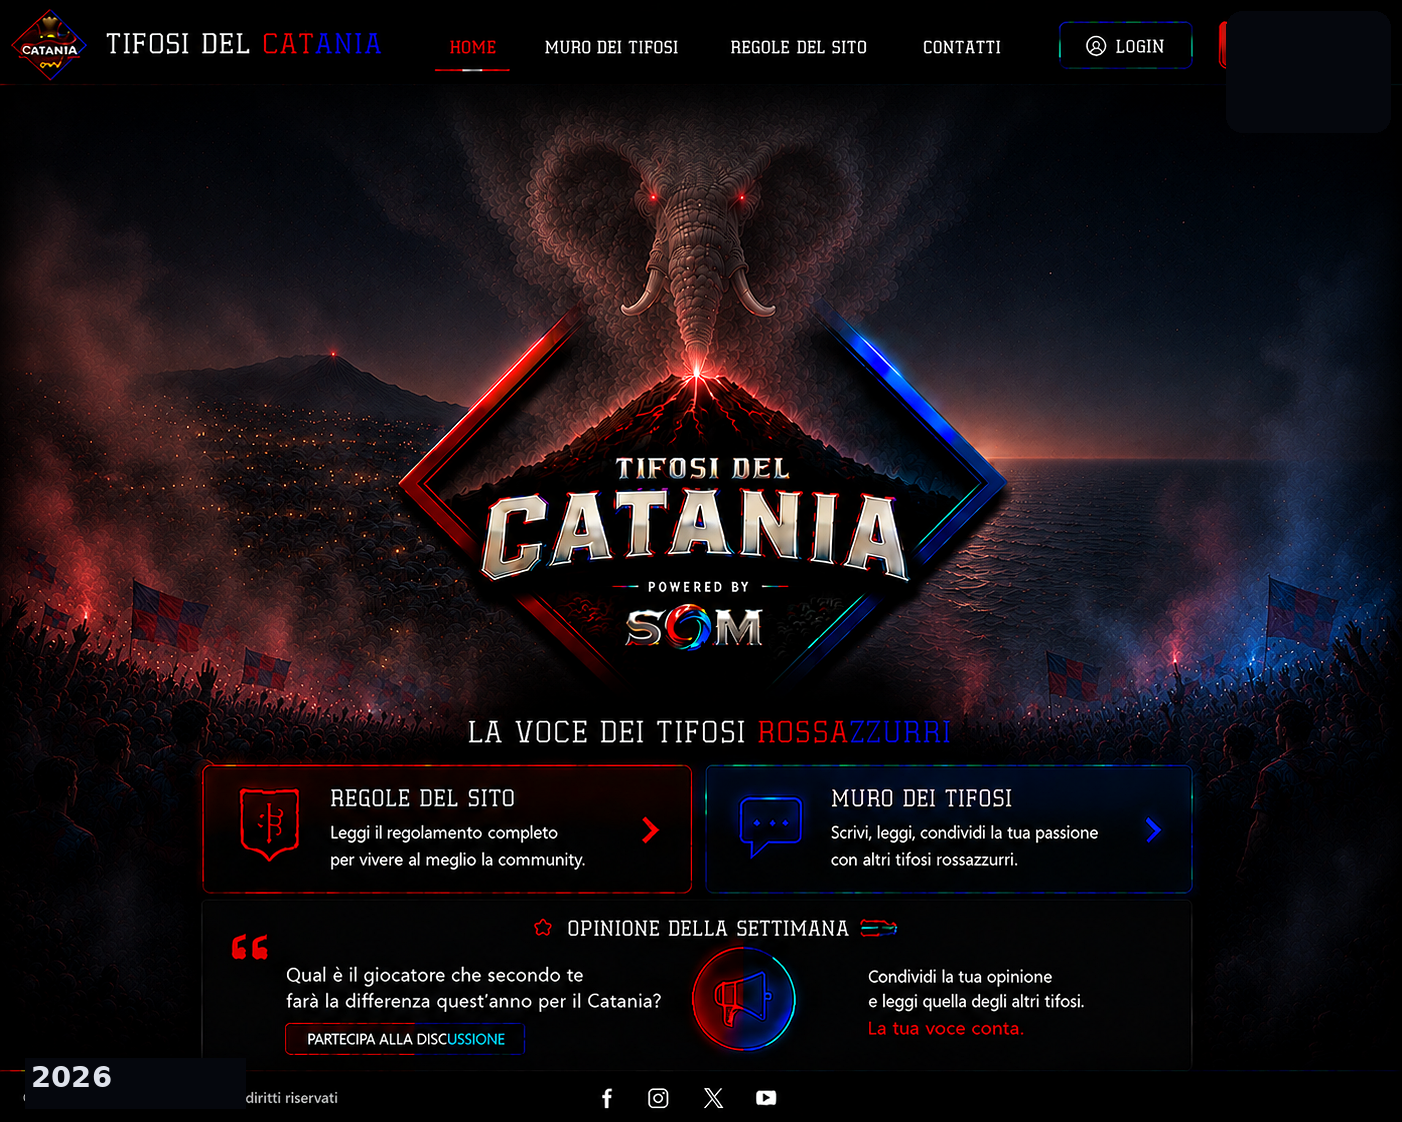
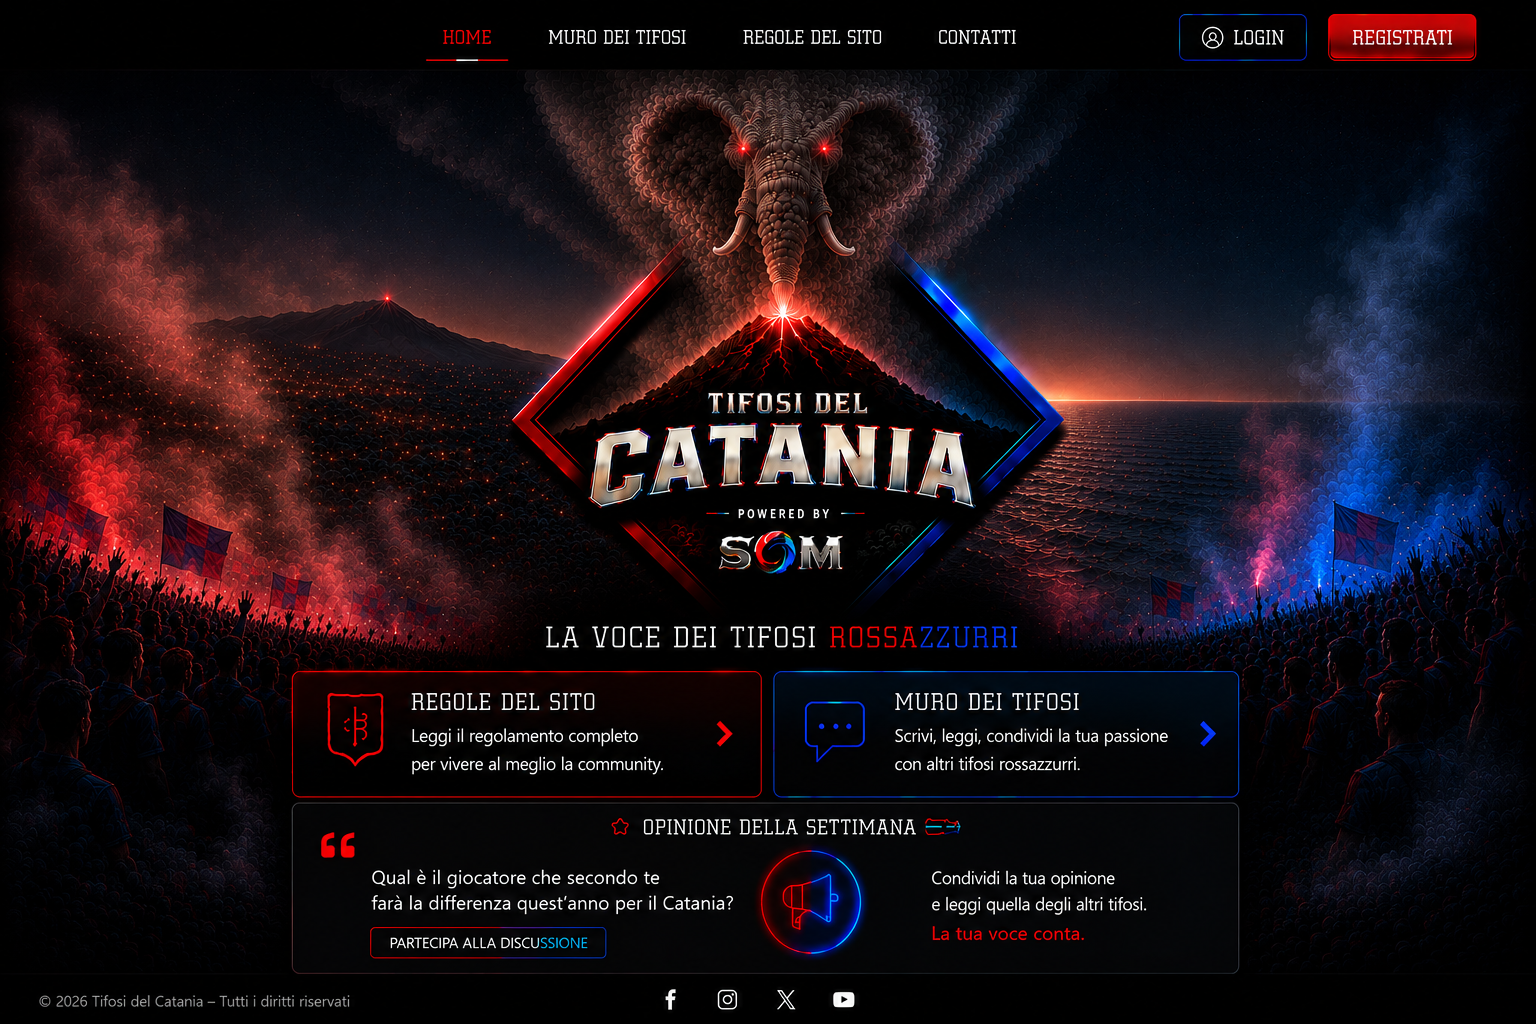
Add files via upload

diff --git a/app/page.tsx b/app/page.tsx
@@ -3,76 +3,19 @@ import Link from 'next/link';
 export default function Home() {
   return (
     <main className="home">
-      <div className="ref" />
-      <div className="stars" />
-      <div className="red-glow" /><div className="blue-glow" />
-      <div className="left-land" /><div className="sea" />
-      <div className="fog left" /><div className="fog right" />
-      <div className="crowd left" /><div className="crowd right" />
-      <div className="flag f1" /><div className="flag f2" /><div className="flag f3" />
-      <div className="flag f4" /><div className="flag f5" /><div className="flag f6" />
-      <div className="smoke" /><div className="volcano" />
-      <div className="elephant">
-        <div className="ear left" /><div className="ear right" />
-        <div className="head" /><div className="trunk" />
-        <div className="tusk left" /><div className="tusk right" />
-        <div className="eye left" /><div className="eye right" />
-      </div>
-
-      <header className="header">
-        <Link className="brand" href="/">TIFOSI DEL <b>CATANIA</b></Link>
-        <nav className="nav">
-          <Link className="active" href="/">HOME</Link>
-          <Link href="/muro">MURO DEI TIFOSI</Link>
-          <Link href="/regole">REGOLE DEL SITO</Link>
-          <Link href="/contatti">CONTATTI</Link>
-        </nav>
-        <div className="auth">
-          <Link className="login" href="/login">LOGIN</Link>
-          <Link className="register" href="/registrati">REGISTRATI</Link>
-        </div>
-      </header>
-
-      <section className="hero">
-        <div className="crest-wrap">
-          <div className="crest">
-            <div className="crest-inner">
-              <div className="small">TIFOSI DEL</div>
-              <div className="big">CATANIA</div>
-              <div className="powered">POWERED BY</div>
-              <div className="som">SOM</div>
-            </div>
-          </div>
-        </div>
-
-        <h1 className="claim">LA VOCE DEI TIFOSI <span className="red">ROSSA</span><span className="blue">ZZURRI</span></h1>
-
-        <div className="cards">
-          <Link className="card red-card" href="/regole">
-            <span className="card-icon">⚑</span>
-            <span className="card-text"><h2>REGOLE DEL SITO</h2><p>Leggi il regolamento completo per vivere al meglio la community.</p></span>
-            <span className="card-arrow">›</span>
-          </Link>
-          <Link className="card blue-card" href="/muro">
-            <span className="card-icon">💬</span>
-            <span className="card-text"><h2>MURO DEI TIFOSI</h2><p>Scrivi, leggi e condividi la tua passione rossazzurra.</p></span>
-            <span className="card-arrow">›</span>
-          </Link>
-        </div>
-
-        <section className="opinion">
-          <h2>☆ OPINIONE DELLA SETTIMANA</h2>
-          <div className="opinion-grid">
-            <div><div className="quote">“</div><h3>Qual è il giocatore che secondo te farà la differenza quest’anno per il Catania?</h3><Link href="/muro">PARTECIPA ALLA DISCUSSIONE</Link></div>
-            <div className="opinion-side"><p>Condividi la tua opinione e leggi quella degli altri tifosi.</p><strong>La tua voce conta.</strong></div>
-          </div>
-        </section>
-
-        <footer className="footer">
-          <span>© 2026 Tifosi del Catania — Tutti i diritti riservati</span>
-          <span>Powered by SOM</span>
-        </footer>
+      <section className="stage" aria-label="TifosiCatania.it homepage">
+        <img className="bild1" src="/bild1.png" alt="TifosiCatania.it" />
+        <Link className="hotspot hot-home" href="/">Home</Link>
+        <Link className="hotspot hot-muro-nav" href="/muro">Muro dei tifosi</Link>
+        <Link className="hotspot hot-regole-nav" href="/regole">Regole del sito</Link>
+        <Link className="hotspot hot-contatti" href="/contatti">Contatti</Link>
+        <Link className="hotspot hot-login" href="/login">Login</Link>
+        <Link className="hotspot hot-registrati" href="/registrati">Registrati</Link>
+        <Link className="hotspot hot-regole-btn" href="/regole">Regole del sito</Link>
+        <Link className="hotspot hot-muro-btn" href="/muro">Muro dei tifosi</Link>
+        <Link className="hotspot hot-opinione" href="/muro">Opinione della settimana</Link>
       </section>
+      <nav className="mobile-actions"><Link href="/regole">Regole</Link><Link href="/muro">Muro</Link></nav>
     </main>
   );
 }

diff --git a/app/globals.css b/app/globals.css
@@ -1,26 +1,25 @@
 
-:root{--red:#e11225;--blue:#0789ff;--black:#03050b;--panel:rgba(5,9,18,.82);--line:rgba(255,255,255,.16);--cream:#f0e5d5}
-*{box-sizing:border-box}html,body{margin:0;min-height:100%;background:#03050b;color:#fff;font-family:Arial,Helvetica,sans-serif}a{text-decoration:none;color:inherit}
-.home{position:relative;min-height:100vh;overflow:hidden;background:radial-gradient(circle at 50% 32%,rgba(255,109,22,.42),transparent 17%),radial-gradient(circle at 17% 57%,rgba(225,18,37,.48),transparent 34%),radial-gradient(circle at 84% 57%,rgba(7,137,255,.42),transparent 34%),linear-gradient(180deg,#03050b 0%,#0a1422 42%,#02040a 100%)}
-.home:after{content:"";position:absolute;inset:0;z-index:6;pointer-events:none;background:linear-gradient(180deg,rgba(0,0,0,.42),rgba(0,0,0,.06) 28%,rgba(0,0,0,.18) 58%,rgba(0,0,0,.92)),radial-gradient(circle at 50% 42%,transparent 0 35%,rgba(0,0,0,.38) 76%,rgba(0,0,0,.80))}
-.ref{position:absolute;inset:0;background:url('/assets/bild1-master.png') center top/cover no-repeat;opacity:.18;filter:saturate(1.05) contrast(1.03)}
-.stars{position:absolute;inset:0;background-image:radial-gradient(circle,rgba(255,255,255,.23) 0 1px,transparent 1.4px),radial-gradient(circle,rgba(255,255,255,.14) 0 1px,transparent 1.4px);background-size:190px 160px,270px 230px;opacity:.38}
-.left-land{position:absolute;z-index:2;left:0;bottom:22%;width:52%;height:36%;background:linear-gradient(175deg,transparent 0 36%,rgba(4,6,12,.96) 37%);clip-path:polygon(0 54%,13% 47%,30% 32%,45% 43%,61% 31%,82% 49%,100% 45%,100% 100%,0 100%)}
-.left-land:after{content:"";position:absolute;left:7%;right:18%;bottom:16%;height:70px;opacity:.52;background:linear-gradient(to top,#03050b 0 48%,transparent 48%),repeating-linear-gradient(90deg,transparent 0 34px,#03050b 34px 54px);filter:drop-shadow(0 0 10px rgba(255,160,70,.35))}
-.sea{position:absolute;z-index:2;right:0;bottom:22%;width:53%;height:35%;clip-path:polygon(0 50%,100% 31%,100% 100%,0 100%);background:repeating-linear-gradient(-5deg,rgba(255,255,255,.16) 0 1px,transparent 2px 18px),linear-gradient(180deg,rgba(9,80,155,.18),rgba(4,16,38,.84))}
-.volcano{position:absolute;z-index:2;left:50%;top:35%;transform:translateX(-50%);width:min(590px,56vw);height:315px;background:linear-gradient(130deg,#05070b 0 30%,#24100b 50%,#06080e 72%);clip-path:polygon(50% 0,100% 100%,0 100%);filter:drop-shadow(0 28px 42px rgba(0,0,0,.78))}
-.volcano:before{content:"";position:absolute;left:36%;right:36%;top:-5px;height:17px;border-radius:50%;background:#ff6e16;box-shadow:0 0 38px 16px rgba(255,100,16,.78)}
-.volcano:after{content:"";position:absolute;left:49%;top:4%;width:2.7%;height:88%;background:linear-gradient(180deg,#fff4ab,#ff6e16,#df1026,transparent);box-shadow:0 0 20px rgba(255,110,22,.85)}
-.smoke{position:absolute;z-index:1;left:50%;top:7%;transform:translateX(-50%);width:470px;height:440px;opacity:.64;filter:blur(7px);background:radial-gradient(ellipse at 50% 10%,rgba(210,198,186,.46),transparent 17%),radial-gradient(ellipse at 44% 32%,rgba(112,102,98,.75),transparent 22%),radial-gradient(ellipse at 58% 48%,rgba(78,74,76,.70),transparent 26%),radial-gradient(ellipse at 49% 76%,rgba(48,46,50,.74),transparent 24%)}
-.elephant{position:absolute;z-index:3;left:50%;top:11%;transform:translateX(-50%);width:min(375px,34vw);height:310px;opacity:.9;filter:drop-shadow(0 0 28px rgba(223,16,38,.42))}
-.ear,.head,.trunk{position:absolute;background:radial-gradient(circle at 35% 30%,rgba(205,192,178,.48),rgba(48,46,49,.80) 52%,rgba(12,14,20,.20) 72%,transparent)}
-.ear.l{left:0;top:60px;width:156px;height:156px;border-radius:58% 42% 55% 45%}.ear.r{right:0;top:60px;width:156px;height:156px;border-radius:42% 58% 45% 55%}.head{left:108px;top:21px;width:160px;height:172px;border-radius:48%}.trunk{left:162px;top:150px;width:50px;height:140px;border-radius:45%;background:linear-gradient(180deg,rgba(155,140,124,.62),rgba(35,35,40,.54),transparent)}
-.eye{position:absolute;top:114px;width:9px;height:9px;border-radius:50%;background:#ff2a1f;box-shadow:0 0 14px 6px rgba(255,42,31,.72)}.eye.l{left:136px}.eye.r{right:136px}.tusk{position:absolute;top:168px;width:50px;height:76px;border:5px solid #eadfce;border-top:0;border-left:0;border-radius:0 0 52px 0;opacity:.78}.tusk.l{left:114px;transform:rotate(18deg)}.tusk.r{right:114px;transform:scaleX(-1) rotate(18deg)}
-.fog{position:absolute;z-index:2;bottom:15%;width:54%;height:35%;filter:blur(11px);opacity:.74}.fog.l{left:-8%;background:radial-gradient(ellipse at 45% 76%,rgba(223,16,38,.72),transparent 61%)}.fog.r{right:-8%;background:radial-gradient(ellipse at 55% 76%,rgba(10,136,255,.66),transparent 61%)}
-.crowd{position:absolute;z-index:2;bottom:0;width:46%;height:40%}.crowd.l{left:0;background:linear-gradient(15deg,rgba(0,0,0,.98),rgba(223,16,38,.35),transparent)}.crowd.r{right:0;background:linear-gradient(-15deg,rgba(0,0,0,.98),rgba(10,136,255,.32),transparent)}.crowd:after{content:"";position:absolute;left:0;right:0;bottom:0;height:70%;opacity:.95;background:radial-gradient(circle at 12% 83%,#02040a 0 9px,transparent 10px),radial-gradient(circle at 20% 88%,#02040a 0 8px,transparent 9px),radial-gradient(circle at 34% 84%,#02040a 0 9px,transparent 10px),radial-gradient(circle at 48% 89%,#02040a 0 8px,transparent 9px),radial-gradient(circle at 60% 84%,#02040a 0 9px,transparent 10px),radial-gradient(circle at 77% 89%,#02040a 0 8px,transparent 9px),radial-gradient(circle at 88% 83%,#02040a 0 9px,transparent 10px);background-size:140px 80px}
-.flag{position:absolute;z-index:3;width:58px;height:42px;opacity:.38;filter:blur(.7px)}.flag:before{content:"";position:absolute;left:0;top:0;width:50%;height:100%;background:var(--red)}.flag:after{content:"";position:absolute;right:0;top:0;width:50%;height:100%;background:var(--blue)}.f1{left:11%;bottom:26%;transform:rotate(-13deg) scale(.86)}.f2{left:18%;bottom:31%;transform:rotate(8deg) scale(.7)}.f3{left:25%;bottom:23%;transform:rotate(-5deg) scale(.58)}.f4{right:10%;bottom:27%;transform:rotate(13deg) scale(.9)}.f5{right:18%;bottom:22%;transform:rotate(-8deg) scale(.62)}.f6{right:27%;bottom:29%;transform:rotate(4deg) scale(.56)}
-.header{position:relative;z-index:10;height:86px;padding:0 clamp(18px,4vw,52px);display:flex;align-items:center;justify-content:space-between;gap:22px;background:linear-gradient(180deg,rgba(0,0,0,.76),rgba(0,0,0,.18));border-bottom:1px solid rgba(255,255,255,.08);backdrop-filter:blur(8px)}.brand{font-family:Impact,'Arial Black',sans-serif;text-transform:uppercase;letter-spacing:.06em;font-size:clamp(20px,2.1vw,31px);white-space:nowrap;text-shadow:0 5px 18px rgba(0,0,0,.8)}.brand b{color:var(--blue);font-weight:400}.nav{display:flex;gap:clamp(12px,2vw,28px);align-items:center;text-transform:uppercase;font-size:13px;font-weight:900;letter-spacing:.07em}.nav a{color:rgba(255,255,255,.88)}.nav .active{color:#fff;position:relative}.nav .active:after{content:"";position:absolute;left:20%;right:20%;bottom:-13px;height:3px;background:linear-gradient(90deg,var(--red),#fff,var(--blue));border-radius:999px}.auth{display:flex;gap:14px}.auth a{min-width:110px;text-align:center;border-radius:6px;padding:12px 18px;font-size:13px;font-weight:900;text-transform:uppercase;letter-spacing:.07em;border:1px solid rgba(255,255,255,.18);background:rgba(0,0,0,.28)}.auth .login{border-color:rgba(10,136,255,.72)}.auth .register{border-color:rgba(223,16,38,.82);background:rgba(193,18,31,.52)}
-.hero{position:relative;z-index:5;min-height:calc(100vh - 86px);display:flex;flex-direction:column;align-items:center;justify-content:flex-end;padding:30px 20px 36px}.crest-wrap{width:min(640px,80vw);height:clamp(300px,44vh,500px);position:relative;margin-bottom:4px}.crest{position:absolute;inset:0;margin:auto;width:min(580px,78vw);height:min(580px,78vw);max-height:100%;border-radius:30px;transform:rotate(45deg) scale(.72);background:linear-gradient(135deg,rgba(223,16,38,.18),rgba(0,0,0,.88) 45%,rgba(10,136,255,.18));border:7px solid rgba(10,136,255,.95);outline:7px solid rgba(223,16,38,.92);box-shadow:0 28px 80px rgba(0,0,0,.82),0 0 38px rgba(223,16,38,.38),0 0 42px rgba(10,136,255,.34);overflow:hidden}.crest:before{content:"";position:absolute;inset:0;background:radial-gradient(circle at 48% 20%,rgba(255,112,22,.42),transparent 24%),linear-gradient(180deg,rgba(0,0,0,.08),rgba(0,0,0,.58))}.crest-inner{position:absolute;inset:0;transform:rotate(-45deg) scale(1.22);display:flex;flex-direction:column;align-items:center;justify-content:center;text-align:center}.small{font-family:Impact,'Arial Black',sans-serif;letter-spacing:.12em;text-transform:uppercase;font-size:clamp(22px,3vw,40px);text-shadow:0 6px 16px rgba(0,0,0,.9)}.big{margin-top:-4px;font-family:Impact,'Arial Black',sans-serif;letter-spacing:.06em;text-transform:uppercase;font-size:clamp(58px,8vw,104px);line-height:.82;color:var(--cream);-webkit-text-stroke:3px rgba(0,0,0,.84);text-shadow:0 7px 0 rgba(0,0,0,.55),0 12px 18px rgba(0,0,0,.85)}.powered{margin-top:12px;font-size:clamp(12px,1.6vw,18px);text-transform:uppercase;letter-spacing:.22em;color:#dedede}.som{font-family:Impact,'Arial Black',sans-serif;font-size:clamp(36px,5vw,64px);letter-spacing:.09em;background:linear-gradient(100deg,#fff,#777,#fff,#b5b5b5);-webkit-background-clip:text;color:transparent;text-shadow:0 10px 18px rgba(0,0,0,.75)}
-.claim{margin:0;font-family:Impact,'Arial Black',sans-serif;text-transform:uppercase;letter-spacing:.055em;text-align:center;font-size:clamp(32px,4.6vw,66px);line-height:.95;text-shadow:0 8px 22px rgba(0,0,0,.92)}.claim .red{color:#ff2533}.claim .blue{color:#1e8dff}.cards{width:min(960px,100%);margin:26px auto 16px;display:grid;grid-template-columns:1fr 1fr;gap:16px}.card{min-height:96px;border-radius:10px;display:flex;align-items:center;gap:20px;padding:22px 28px;border:1px solid rgba(255,255,255,.16);background:var(--panel);box-shadow:0 18px 40px rgba(0,0,0,.48);backdrop-filter:blur(10px)}.red-card{border-color:rgba(223,16,38,.74)}.blue-card{border-color:rgba(10,136,255,.74)}.card-icon{width:52px;height:52px;display:grid;place-items:center;border-radius:10px;border:2px solid currentColor;font-size:28px}.card-text{flex:1;text-align:left}.card h2{font-family:Impact,'Arial Black',sans-serif;text-transform:uppercase;letter-spacing:.06em;font-size:clamp(22px,2.3vw,31px);margin:0 0 6px}.card p{margin:0;color:#d5dae4;line-height:1.35;font-size:14px}.card-arrow{font-size:38px}.opinion{width:min(960px,100%);min-height:150px;border-radius:10px;background:rgba(5,9,18,.76);border:1px solid rgba(255,255,255,.16);box-shadow:0 18px 42px rgba(0,0,0,.54);backdrop-filter:blur(10px);padding:24px 34px;text-align:left}.opinion>h2{text-align:center;font-family:Impact,'Arial Black',sans-serif;text-transform:uppercase;letter-spacing:.09em;font-size:clamp(19px,2.3vw,28px);margin:0 0 14px}.opinion-grid{display:grid;grid-template-columns:1.2fr .8fr;gap:28px}.quote{color:#ff2533;font-size:56px;line-height:.6}.opinion h3{font-size:clamp(20px,2.3vw,30px);line-height:1.22;margin:8px 0 18px}.opinion a{display:inline-block;padding:10px 16px;border-radius:5px;border:1px solid var(--blue);text-transform:uppercase;font-weight:900;letter-spacing:.05em;font-size:12px;background:rgba(0,0,0,.28)}.opinion-side{align-self:center;color:#d9dee8;line-height:1.42;font-size:16px}.opinion-side strong{display:block;margin-top:8px;color:#ff2533;font-size:20px}.footer{position:relative;z-index:5;width:min(1180px,100%);margin:18px auto 0;padding:0 20px;display:flex;justify-content:space-between;color:rgba(255,255,255,.58);font-size:12px}
-.page{min-height:100vh;padding:124px 20px 60px;background:linear-gradient(180deg,rgba(5,7,13,.34),rgba(5,7,13,.96)),linear-gradient(135deg,#07101d,#03050b)}.panel{width:min(1040px,100%);margin:0 auto;border-radius:24px;padding:32px;background:rgba(5,9,18,.92);border:1px solid var(--line);box-shadow:0 28px 70px rgba(0,0,0,.58)}.panel h1{font-family:Impact,'Arial Black',sans-serif;text-transform:uppercase;letter-spacing:.055em;font-size:clamp(38px,6vw,76px);margin:0 0 18px}.panel p{color:#e2e7f0;line-height:1.62;font-size:18px}.back{display:inline-block;margin-top:24px;border-radius:999px;padding:12px 18px;background:linear-gradient(135deg,var(--blue),var(--red));font-weight:900;text-transform:uppercase;letter-spacing:.07em;font-size:13px}
-@media(max-width:1100px){.header{height:auto;flex-direction:column;align-items:flex-start}.auth{align-self:flex-start}}@media(max-width:760px){.header{padding:14px}.nav{gap:10px;font-size:10.5px;flex-wrap:wrap}.auth a{min-width:0;padding:9px 12px}.hero{padding-top:20px;min-height:calc(100vh - 120px)}.crest-wrap{width:95vw;height:320px}.crest{width:370px;height:370px}.cards{grid-template-columns:1fr}.opinion-grid{grid-template-columns:1fr}.opinion{padding:22px}.footer{flex-direction:column;gap:8px;text-align:center}.elephant{width:300px;top:15%}.volcano{top:38%;width:90vw}.sea{width:60%;height:30%}}
+*{box-sizing:border-box}
+html,body{margin:0;padding:0;min-height:100%;background:#03050b;color:#fff;font-family:Arial,Helvetica,sans-serif}
+a{text-decoration:none;color:inherit}
+.home{width:100%;min-height:100vh;background:#03050b}
+.stage{position:relative;width:100%;max-width:1920px;margin:0 auto;line-height:0;background:#03050b}
+.bild1{display:block;width:100%;height:auto;margin:0 auto;user-select:none;-webkit-user-drag:none}
+.hotspot{position:absolute;z-index:10;display:block;background:transparent;text-indent:-9999px;overflow:hidden}
+.hot-home{top:2.0%;left:25.2%;width:7.8%;height:5.0%}
+.hot-muro-nav{top:2.0%;left:33.7%;width:12.5%;height:5.0%}
+.hot-regole-nav{top:2.0%;left:47.8%;width:12.8%;height:5.0%}
+.hot-contatti{top:2.0%;left:61.7%;width:8.6%;height:5.0%}
+.hot-login{top:1.3%;right:13.8%;width:8.4%;height:5.6%}
+.hot-registrati{top:1.3%;right:3.2%;width:10.2%;height:5.6%}
+.hot-regole-btn{top:65.5%;left:18.6%;width:31.0%;height:12.2%}
+.hot-muro-btn{top:65.5%;left:50.5%;width:31.0%;height:12.2%}
+.hot-opinione{top:78.4%;left:18.6%;width:62.8%;height:16.5%}
+.mobile-actions{display:none}
+.page{min-height:100vh;padding:90px 22px;background:linear-gradient(180deg,rgba(5,7,13,.45),rgba(5,7,13,.96)),url('/bild1.png') center top/cover no-repeat}
+.panel{width:min(980px,100%);margin:0 auto;padding:34px;border-radius:28px;background:rgba(5,9,18,.88);border:1px solid rgba(255,255,255,.16);box-shadow:0 28px 70px rgba(0,0,0,.62);backdrop-filter:blur(12px);line-height:1.4}
+.panel h1{margin:0 0 18px;font-family:Impact,Haettenschweiler,'Arial Black',sans-serif;text-transform:uppercase;letter-spacing:.055em;font-size:clamp(42px,6vw,78px)}
+.panel p{margin:0;color:#e3e8f2;font-size:19px;line-height:1.65}
+.back{display:inline-block;margin-top:24px;padding:12px 18px;border-radius:999px;background:linear-gradient(135deg,#0057b8,#c1121f);color:#fff;font-weight:900;text-transform:uppercase;letter-spacing:.07em;font-size:13px}
+.form{display:grid;gap:12px;margin-top:20px}.input,.textarea{width:100%;border:1px solid rgba(255,255,255,.16);border-radius:16px;background:rgba(255,255,255,.07);color:#fff;padding:14px 16px;font-size:16px}.textarea{min-height:140px;resize:vertical}.button{cursor:pointer;border:1px solid rgba(255,255,255,.2);border-radius:999px;background:linear-gradient(135deg,#0057b8,#c1121f);color:#fff;font-weight:900;text-transform:uppercase;letter-spacing:.07em;padding:12px 18px;width:fit-content}
+@media(max-width:760px){.hotspot{display:none}.mobile-actions{display:flex;position:fixed;z-index:20;left:12px;right:12px;bottom:12px;gap:8px}.mobile-actions a{flex:1;text-align:center;border-radius:999px;padding:12px 8px;background:rgba(0,0,0,.62);border:1px solid rgba(255,255,255,.22);backdrop-filter:blur(8px);font-size:12px;font-weight:900;text-transform:uppercase;letter-spacing:.06em;line-height:1}.page{padding-top:70px}.panel{padding:24px;border-radius:22px}}

diff --git a/app/contatti/page.tsx b/app/contatti/page.tsx
@@ -1,4 +1,14 @@
 import Link from 'next/link';
+
 export default function Page() {
-  return <main className="page"><section className="panel"><h1>Contatti</h1><p>Pagina contatti in preparazione.</p><Link className="back" href="/">Torna alla Home</Link></section></main>;
+  return (
+    <main className="page">
+      <section className="panel">
+        <h1>Contatti</h1>
+        <p>Pagina contatti in preparazione.</p>
+        
+        <Link className="back" href="/">Torna alla Home</Link>
+      </section>
+    </main>
+  );
 }

diff --git a/app/login/page.tsx b/app/login/page.tsx
@@ -1,4 +1,14 @@
 import Link from 'next/link';
+
 export default function Page() {
-  return <main className="page"><section className="panel"><h1>Login</h1><p>Login in preparazione.</p><Link className="back" href="/">Torna alla Home</Link></section></main>;
+  return (
+    <main className="page">
+      <section className="panel">
+        <h1>Login</h1>
+        <p>Login in preparazione.</p>
+        
+        <Link className="back" href="/">Torna alla Home</Link>
+      </section>
+    </main>
+  );
 }

diff --git a/app/muro/page.tsx b/app/muro/page.tsx
@@ -1,4 +1,14 @@
 import Link from 'next/link';
+
 export default function Page() {
-  return <main className="page"><section className="panel"><h1>Muro dei tifosi</h1><p>La sezione forum verrà collegata dopo l’approvazione definitiva della Home.</p><Link className="back" href="/">Torna alla Home</Link></section></main>;
+  return (
+    <main className="page">
+      <section className="panel">
+        <h1>Muro dei tifosi</h1>
+        <p>Forum iniziale. Dopo l’approvazione della Home online, collegheremo qui le funzioni complete con database.</p>
+        <div className="form"><input className="input" placeholder="Titolo del messaggio" /><textarea className="textarea" placeholder="Scrivi il tuo messaggio... 🔴🔵⚽" /><button className="button">Pubblica</button></div>
+        <Link className="back" href="/">Torna alla Home</Link>
+      </section>
+    </main>
+  );
 }

diff --git a/app/registrati/page.tsx b/app/registrati/page.tsx
@@ -1,4 +1,14 @@
 import Link from 'next/link';
+
 export default function Page() {
-  return <main className="page"><section className="panel"><h1>Registrati</h1><p>Registrazione in preparazione.</p><Link className="back" href="/">Torna alla Home</Link></section></main>;
+  return (
+    <main className="page">
+      <section className="panel">
+        <h1>Registrati</h1>
+        <p>Registrazione in preparazione.</p>
+        
+        <Link className="back" href="/">Torna alla Home</Link>
+      </section>
+    </main>
+  );
 }

diff --git a/app/regole/page.tsx b/app/regole/page.tsx
@@ -1,4 +1,14 @@
 import Link from 'next/link';
+
 export default function Page() {
-  return <main className="page"><section className="panel"><h1>Regole del sito</h1><p>Questo è uno spazio libero, dove ognuno può esprimere le sue opinioni, di qualsiasi genere siano. Vige una sola regola, lo si deve fare in un contesto civile. Rispetta te stesso e gli altri e farai parte di questa comunità che da moltissimi anni segue le vicende del Catania, e si riunisce regolarmente per scambiare quattro chiacchiere tra amici.</p><Link className="back" href="/">Torna alla Home</Link></section></main>;
+  return (
+    <main className="page">
+      <section className="panel">
+        <h1>Regole del sito</h1>
+        <p>Questo è uno spazio libero, dove ognuno può esprimere le sue opinioni, di qualsiasi genere siano. Vige una sola regola, lo si deve fare in un contesto civile. Rispetta te stesso e gli altri e farai parte di questa comunità che da moltissimi anni segue le vicende del Catania, e si riunisce regolarmente per scambiare quattro chiacchiere tra amici.</p>
+        
+        <Link className="back" href="/">Torna alla Home</Link>
+      </section>
+    </main>
+  );
 }